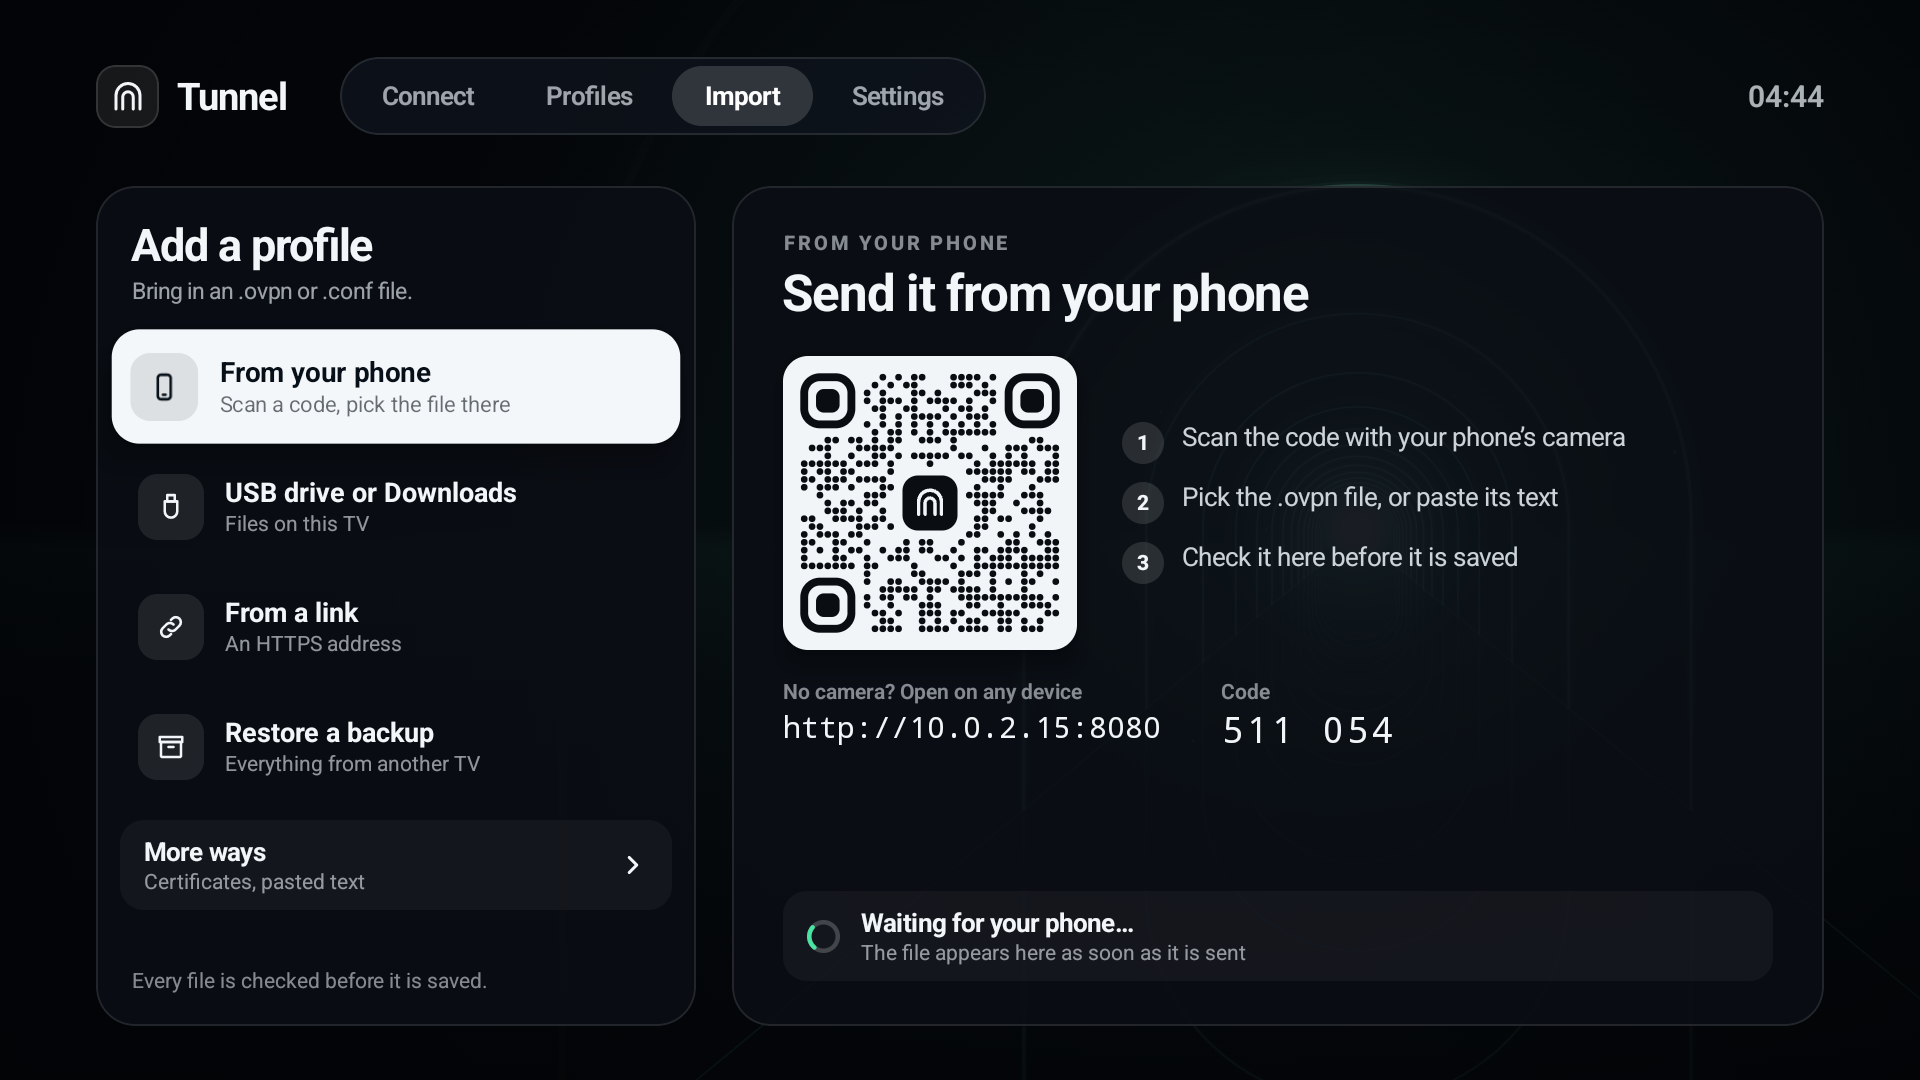
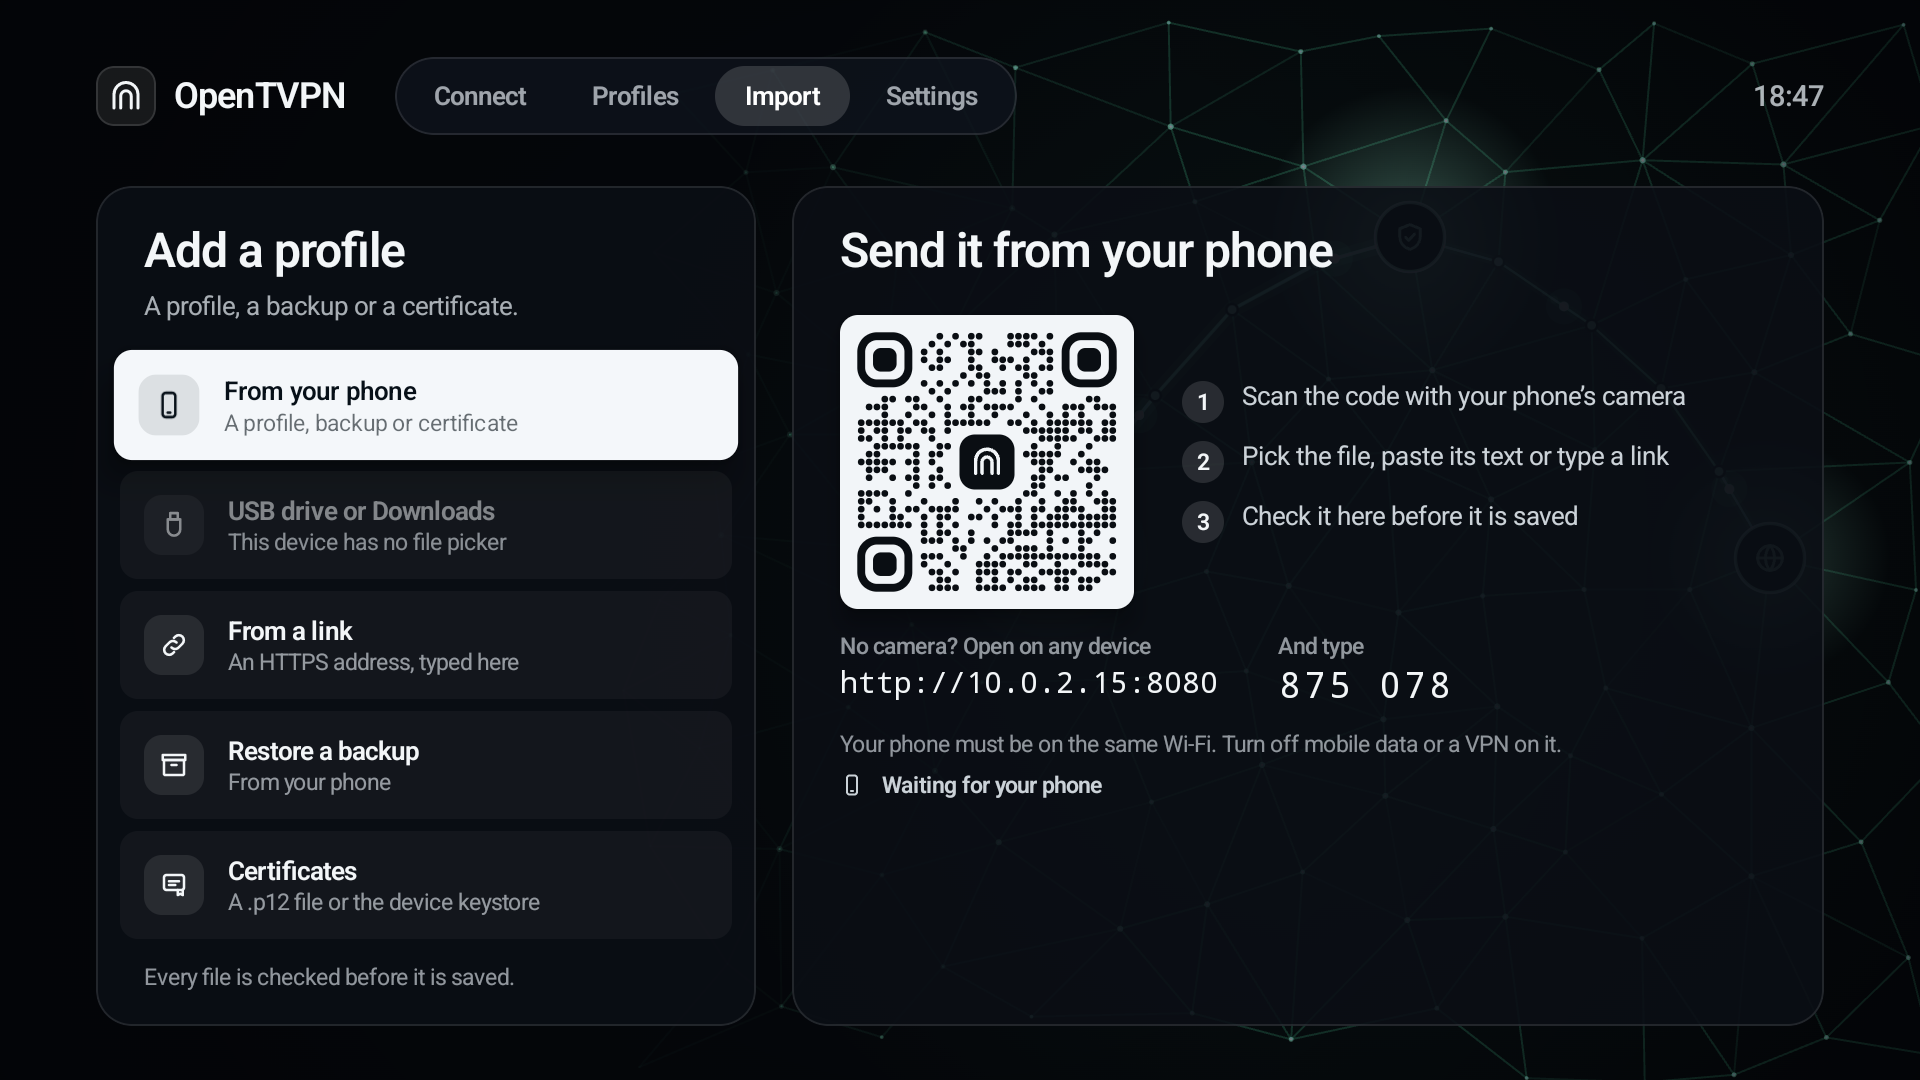
docs: a new README and screenshots of the current app
The README is shorter and plainer. The screenshots show the current
design, taken on the Android TV emulator with made-up profiles,
servers and addresses, and add the first run.

diff --git a/README.md b/README.md
@@ -1,111 +1,100 @@
 # OpenTVPN
 
-An OpenVPN and WireGuard client for Android TV and Google TV, made for the remote. (It was called "OpenVPN client", and before that "Tunnel".)
+OpenTVPN is a VPN app for Android TV and Google TV. It connects to your own OpenVPN or WireGuard server, and you use it with the TV remote.
 
-![The app on the TV's home screen](app/src/main/res/drawable-xxxhdpi/banner.png)
+Most VPN apps are made for phones and are awkward on a TV. This one is laid out for the big screen, and you don't type profiles in with the remote: you send the file from your phone.
 
-![Connected, with Quick connect below](docs/screenshots/connect.png)
+![Connected to a profile, with Quick connect below](docs/screenshots/connect.png)
 
 ## What it does
 
-- **Connects with one press.** Connect shows the current profile, large, with the button you most likely want already focused. Quick connect cards below switch profiles. The background shows where your traffic goes: green from this device through your VPN to the internet while connected, yellow while it connects, and red straight to the internet when off.
-- **OpenVPN and WireGuard, side by side.** A profile is either, by what its file says, and Connect names which in the line with its server. The kill switch, leak blocking, per-app routing, pause and reconnect work the same for both.
-- **Imports profiles without typing.** Scan a QR code with your phone and pick or paste the `.ovpn` or `.conf` file there (a profile that asks for a username and password asks for them on the phone too, and they arrive with it), send a photo of a WireGuard QR code or a `.zip`, or use a USB drive, Downloads or an HTTPS link. The app works out what arrived: a profile, a backup or a certificate, and which profile a certificate belongs to. A file for a server that is here already offers to update that profile. Every file is checked before it is saved, and a login or key inside it is moved out and encrypted. What the phone's page sends and gets is encrypted between it and the TV.
-- **Client certificates.** A `.p12` or `.pfx` file goes into the profile, or into Android's keystore, where the key can sign in but can't be copied off the device. A certificate already installed on the device works too.
-- **Protection.** A kill switch, IPv6 and DNS leak blocking, and the choice to keep casting and devices at home reachable.
-- **Per-app routing.** Let streaming services that block VPNs skip it, or send only the apps you choose through it.
-- **Speed test.** Ping, download and upload through the VPN, on a speedometer, with whether it is fast enough for 4K or HD and how much of your plain connection the VPN keeps.
-- **Everyday controls.** Pause for 15 minutes, connect when the device starts, and reconnect by itself after Wi-Fi changes. There are a connection test, a connection log and connection details.
-- **A control panel on your phone.** Pair a phone once from a QR code, and its browser shows the whole app: status and Connect, every profile and setting, import, backup and the log, also while you watch TV with the VPN on. Every change is previewed first, a tunnel setting can be applied and tested and is put back if the test fails, and anything risky waits for an OK on the remote. Requests are encrypted end to end with a key only the TV and that phone hold.
-- **Backups.** One file moves every profile, saved password and setting to a new device through your phone, encrypted with a password you type for that backup (PBKDF2 and AES-GCM), or as a plain file if you leave it empty. The password is never kept on the device, so restoring needs the one you typed. A restore shows what it adds and changes before it does.
-- **Updates.** Each time it opens, it looks on GitHub for a newer build, by build number, so a build republished under the same version counts too. Settings › About downloads the APK for the device, checks its SHA-256 and installs it; Android asks you to confirm. If the VPN was on, it connects again once the new build is in.
-- **PIN lock** for settings or the whole app, and **automation intents** for home automation apps and ADB.
-- **Remote, keyboard or mouse.** Everything works with the remote; a keyboard types into fields (Enter moves on, as Done does), and a mouse can click anything.
-- **Light on the device.** The VPN runs in its own small process (about 15 MB with OpenVPN on the Android TV emulator). The screens close themselves when you press Back, or three minutes after Home, so the device gets that memory back while you watch; with a phone paired, the panel's server stays in a process of about 12 MB while the VPN is on.
+- Connects with OpenVPN (`.ovpn` files) and WireGuard (`.conf` files).
+- Adds a profile from your phone. Scan the code on the TV, then pick the file, paste it or type a link on the phone. A USB drive or an HTTPS link works too.
+- Shows where your traffic goes: green through the VPN, red straight to the internet.
+- Has a kill switch, and blocks IPv6 and DNS outside the tunnel.
+- Lets some apps skip the VPN, for streaming services that block VPNs, or sends only the apps you pick through it.
+- Runs a speed test through the VPN and says whether it is fast enough for 4K.
+- Pauses for 15 minutes, connects when the TV starts, and reconnects after a Wi-Fi change.
+- Works as a control panel in your phone's browser once you pair the phone.
+- Backs up every profile and setting to your phone, with a password you type for that backup, or none.
+- Updates itself from this repository's releases.
+- Has a PIN lock, and intents for home automation apps and ADB.
 
 ## Screenshots
 
 | | |
 |---|---|
-| ![Profiles](docs/screenshots/profiles-list.png) | ![A profile's settings](docs/screenshots/profiles.png) |
-| Profiles, with the one in focus shown large | A profile: name, icon, sign-in, startup and more |
-| ![Import from a phone](docs/screenshots/import.png) | ![Settings › Apps](docs/screenshots/settings-apps.png) |
-| Import: scan the code and send the file from your phone | Settings › Apps: which apps skip the VPN |
+| ![First run](docs/screenshots/first-run.png) | ![Import](docs/screenshots/import.png) |
+| The first run asks for a profile from your phone | Import: a profile, a backup or a certificate |
+| ![Profiles](docs/screenshots/profiles-list.png) | ![A profile](docs/screenshots/profiles.png) |
+| Profiles | A profile's settings |
 | ![Speed test](docs/screenshots/speedtest.png) | ![Connection details](docs/screenshots/details.png) |
-| Speed test through the VPN | Connection details |
+| Speed test | Connection details |
+| ![Settings › Apps](docs/screenshots/settings-apps.png) | |
+| Apps that skip the VPN | |
 
-The screenshots use demo profiles on the Android TV emulator. The speed test is a real run through a home OpenVPN server about 250 ms away.
+The screenshots are from the Android TV emulator. The profiles, servers and addresses in them are made up. The speed test measured the emulator's own connection.
 
 ## Install
 
-Download the APK from [Releases](https://github.com/kanin-design/GoogleTV-VPN/releases) and sideload it: with `adb install`, or with a downloader app on the device.
+You need Android TV or Google TV on Android 9 or newer, on an ARM chip.
+
+Download an APK from [Releases](https://github.com/kanin-design/GoogleTV-VPN/releases) and sideload it, with `adb install` or a downloader app on the TV:
 
 ```
 adb install opentvpn-0.2.5-alpha-arm64.apk
 ```
 
-It needs Android TV or Google TV on Android 9 or newer, on ARM. There is one APK for each kind of chip: `arm64` for 64-bit Android, such as the NVIDIA Shield, and `armv7` for 32-bit Android, which some Google TV devices run, the Chromecast with Google TV among them. If you are not sure, `adb shell getprop ro.product.cpu.abi` says which: `arm64-v8a` or `armeabi-v7a`.
+Use the `arm64` APK for 64-bit Android, such as the NVIDIA Shield, and `armv7` for 32-bit Android, such as the Chromecast with Google TV. If you are not sure, `adb shell getprop ro.product.cpu.abi` prints `arm64-v8a` or `armeabi-v7a`.
 
-Later builds install from the app, in Settings › About › Updates. The first time, Android asks you to allow the app to install apps.
+After that, new builds install from the app, in Settings › About.
 
-This is an alpha. Builds from 128 on are signed with the project's release key. Builds up to 127 were signed with a development key, and Android won't put one key's build over the other's. To move from one of those, back up your profiles (Settings › Backup), uninstall the app, install the new build, then restore the backup. The app says the same when it finds such a build.
+This is an alpha. Builds up to 127 were signed with a development key, and Android won't install a newer build over one of them. To move, uninstall the old app and install the new one. Uninstalling deletes the profiles, so keep your profile files, or make a backup first and check that you know its password.
 
 ## Build
 
-You need JDK 17, the Android SDK (platform 34) and the NDK 26.1.10909125.
+You need JDK 17, the Android SDK with platform 34, and NDK 26.1.10909125.
 
 ```
 git clone --recursive https://github.com/kanin-design/GoogleTV-VPN.git
 cd GoogleTV-VPN
 ```
 
-The libraries are submodules in `third_party/`, pinned to the commits the app is built with. OpenSSL is built once into `third_party/openssl-install`, as described in [third_party/OPENSSL-BUILD.md](third_party/OPENSSL-BUILD.md). Then:
+The libraries are submodules in `third_party/`. Build OpenSSL once, as [third_party/OPENSSL-BUILD.md](third_party/OPENSSL-BUILD.md) describes, then:
 
 ```
 JAVA_HOME=/path/to/jdk-17 ./gradlew assembleRelease
 ```
 
-The APKs are `app-arm64-v8a-release.apk` and `app-armeabi-v7a-release.apk` in `app/build/outputs/apk/release/`. Release builds are shrunk with R8. They are signed with the release key if this machine has it: `~/Keys/OpenTVPN/opentvpn-release.p12` (or `-PreleaseKeystore=path`), with its password in `OPENTVPN_KEY_PASSWORD` or the macOS Keychain item "OpenTVPN release key". Otherwise they are signed with your debug key, and `tools/release.sh` won't publish them. The key and its password are never in the repository.
+The APKs end up in `app/build/outputs/apk/release/`. They are signed with the project's release key if the machine has it (`~/Keys/OpenTVPN/opentvpn-release.p12`, or `-PreleaseKeystore=path`), and with your debug key if not. The key is never in the repository.
 
-Each build is numbered 100 plus the commits on its branch (`git rev-list --count HEAD`). The number is the APKs' `versionCode`, Settings › About shows it, and the update check compares it. To publish a release, from a clean checkout:
+A build's number is 100 plus the commits on its branch. The app compares it to find updates. `tools/release.sh v0.2.5-alpha` builds both APKs from a clean checkout, checks the signature, writes `update.json` and uploads all three to that GitHub release.
 
-```
-tools/release.sh v0.2.5-alpha
-```
+The app's name is `appName` in `gradle.properties`.
 
-It builds both APKs, checks they are signed with the release key, writes `update.json` (the version, build number, commit, the key's certificate, and each APK's name, size and SHA-256) and uploads all three to that GitHub release with `gh`. `--dry-run` builds without uploading. The app finds updates through `update.json`, so every release needs it.
+## How it works
 
-To rename the app, change `appName` in `gradle.properties`. Every screen, the notification and the home-screen label read it.
-
-The TV banner and the launcher icon are a placeholder, "VPN" on a teal gradient, drawn by `tools/banner.py` with a heavy wide face such as Archivo Expanded Black (SIL Open Font License):
-
-```
-python3 tools/banner.py Archivo-ExpandedBlack.ttf
-```
-
-## How it is built
-
-- The [OpenVPN 3](https://github.com/OpenVPN/openvpn3) core in C++ with OpenSSL 3.5, through JNI (`app/src/main/cpp`).
-- WireGuard through [wireguard-go](https://git.zx2c4.com/wireguard-go/) (`libwg-go.so` from WireGuard's Android library), called through a small JNI shim of its own; the library's GPL tools are not in the APK.
-- One control layer under the screens (`control/`), used by the TV and the phone panel alike, and the panel's server and encryption in `remote/` (ChaCha20-Poly1305 and HKDF on both ends).
-- Jetpack Compose on Compose's foundation only, without the Material library.
-- Drawn at the screen's full resolution, never upscaled. Android TV gives every app a 1920 × 1080 window, even on a 4K TV, and the TV scales that to 4K, as it does the home screen and every other app. The app fills that window pixel for pixel, and a 4K window if a TV offers one. Its layout is measured in design units, 1280 × 720 of them to the screen, but units aren't pixels: 1.5 pixels a unit at 1080p, 3 at 4K.
-- The VPN service runs in its own process (`:vpn`) and tells the screens about the tunnel over a Binder (`vpn/VpnLink.kt`).
-- [docs/use-cases.md](docs/use-cases.md) has the behaviour, test notes and measurements of memory and CPU.
+- OpenVPN uses the [OpenVPN 3](https://github.com/OpenVPN/openvpn3) core with OpenSSL 3.5, through JNI (`app/src/main/cpp`).
+- WireGuard uses [wireguard-go](https://git.zx2c4.com/wireguard-go/), from WireGuard's Android library, without its GPL tools.
+- The VPN runs in its own small process (`:vpn`), so the screens can close while you watch.
+- The screens are Jetpack Compose without the Material library, drawn at the TV's full resolution.
+- The phone panel and its encryption are in `remote/`. Everything it sends is encrypted with a key only the TV and that phone have.
+- [docs/use-cases.md](docs/use-cases.md) has the behaviour in detail, with test notes.
 
 ## Privacy
 
-What stays on the device: your profiles and settings, in the app's private storage. Saved passwords are encrypted with a key in the device's keystore, and the PIN is kept as a salted hash. A saved password is only sent to the servers its profile's file trusts: a new file that trusts others (another CA) takes it off, and it is typed again.
+Your profiles and settings stay in the app's private storage. Saved passwords are encrypted with a key in the device's keystore, and the PIN is stored as a salted hash.
 
 What leaves the device:
-- the VPN traffic itself, to the servers named in your profiles;
-- while connected, one request through the tunnel to api.ipify.org (or icanhazip.com), to show the address sites see;
-- files you send to or from your phone, and what a paired phone's panel sends and receives, which stay on your home network, encrypted: the panel's with a key only the TV and that phone hold, the code pages' with a key the page and the TV agree when it opens. The pages themselves come over plain HTTP, as a TV can't have a certificate for a home address, so someone who can change traffic on your network (not only listen) could change a page;
-- a speed test, only when you start one: data to and from speed.cloudflare.com;
-- each time the app opens, unless you turn it off in Settings › About: a look at this app's releases on GitHub (api.github.com) for a newer build, and the build itself when you choose to install it.
 
-No accounts, no analytics, no ads.
+- The VPN traffic, to the servers in your profiles.
+- While connected, one request through the tunnel to api.ipify.org (or icanhazip.com), to show the address websites see.
+- Files sent between the TV and your phone, and what a paired phone's panel sends and receives. This stays on your home network and is encrypted, but the pages themselves load over plain HTTP, because a TV can't have a certificate for a home address.
+- A speed test, when you start one, to speed.cloudflare.com.
+- Each time the app opens, a check of this repository's releases on api.github.com, unless you turn it off in Settings › About.
+
+There are no accounts, analytics or ads.
 
 ## Third-party software
 
-OpenVPN 3 core (MPL 2.0), OpenSSL (Apache 2.0), wireguard-go (MIT) and WireGuard's Android tunnel library (Apache 2.0), asio (Boost Software License 1.0), fmt (MIT), LZ4 and xxHash (BSD 2-Clause), ZXing (Apache 2.0), noble-ciphers and noble-hashes (MIT), Material Symbols (Apache 2.0), and Jetpack Compose and AndroidX (Apache 2.0). The full texts are in [app/src/main/assets/licenses.txt](app/src/main/assets/licenses.txt), and in the app under Settings › About.
+OpenVPN 3 core (MPL 2.0), OpenSSL (Apache 2.0), wireguard-go (MIT) and WireGuard's Android tunnel library (Apache 2.0), asio (Boost Software License 1.0), fmt (MIT), LZ4 and xxHash (BSD 2-Clause), ZXing (Apache 2.0), noble-ciphers and noble-hashes (MIT), Material Symbols (Apache 2.0), and Jetpack Compose and AndroidX (Apache 2.0). The full texts are in [app/src/main/assets/licenses.txt](app/src/main/assets/licenses.txt) and in the app under Settings › About.
